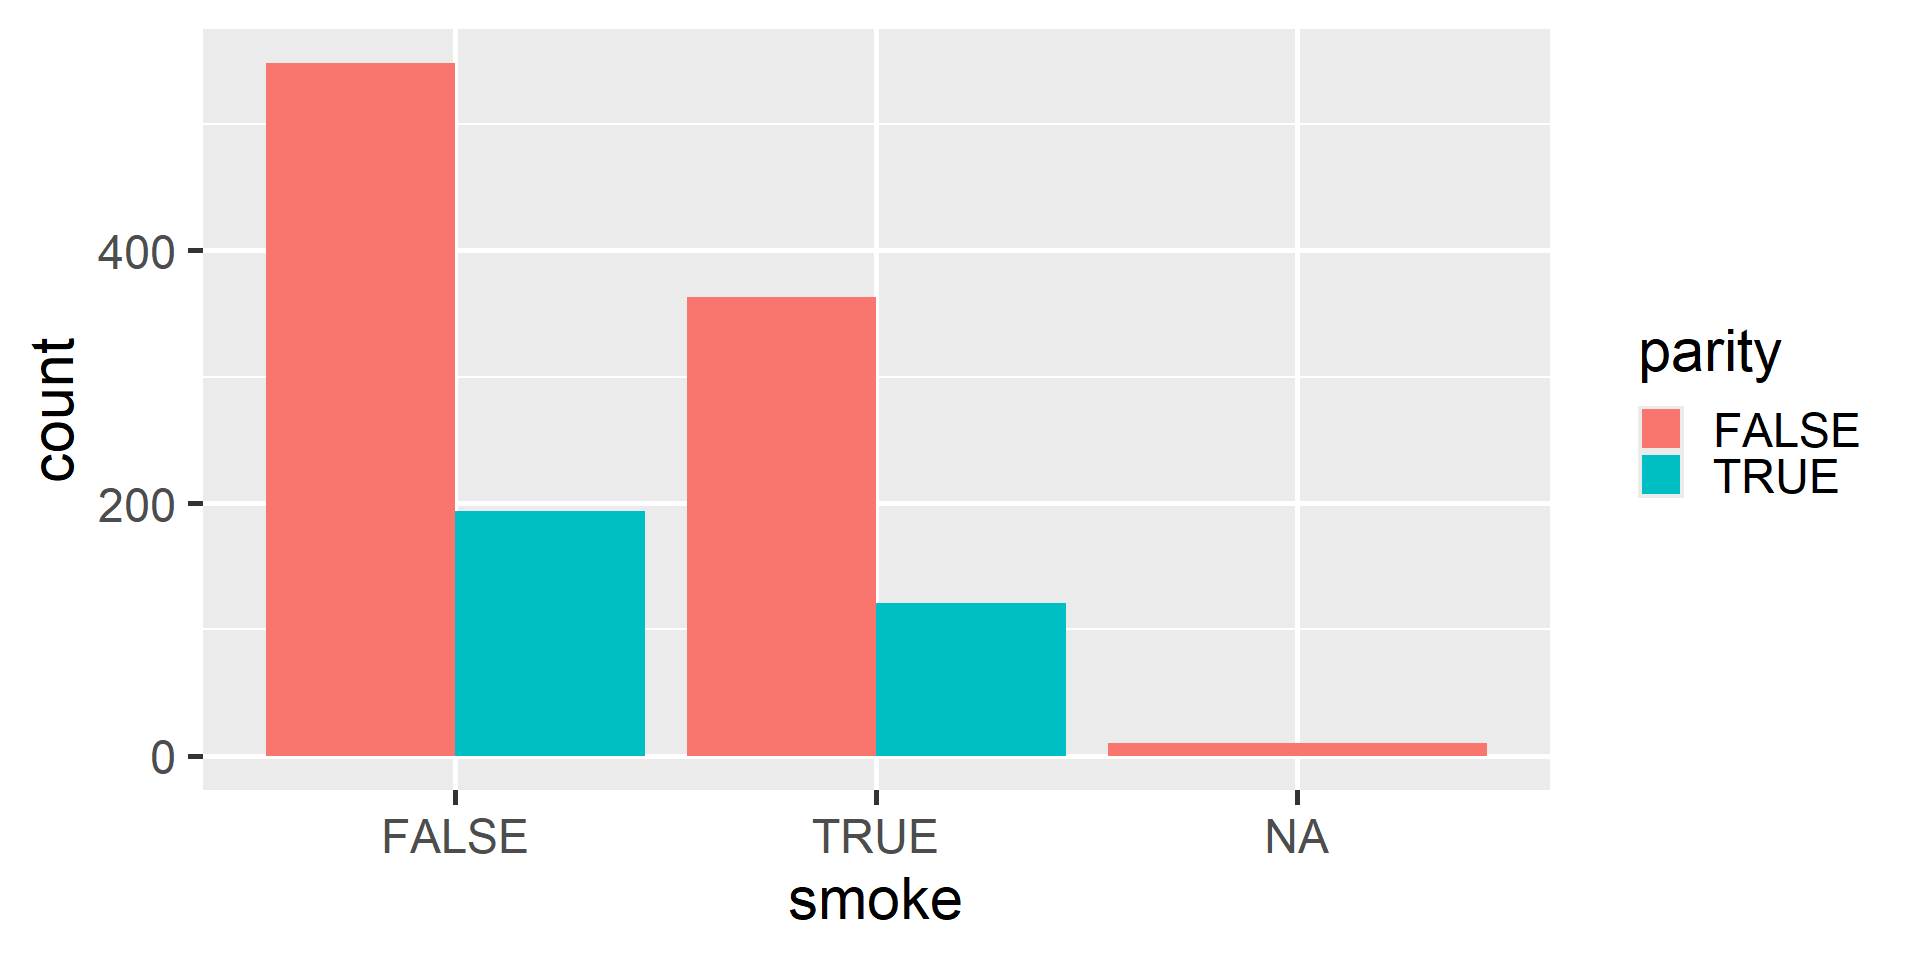
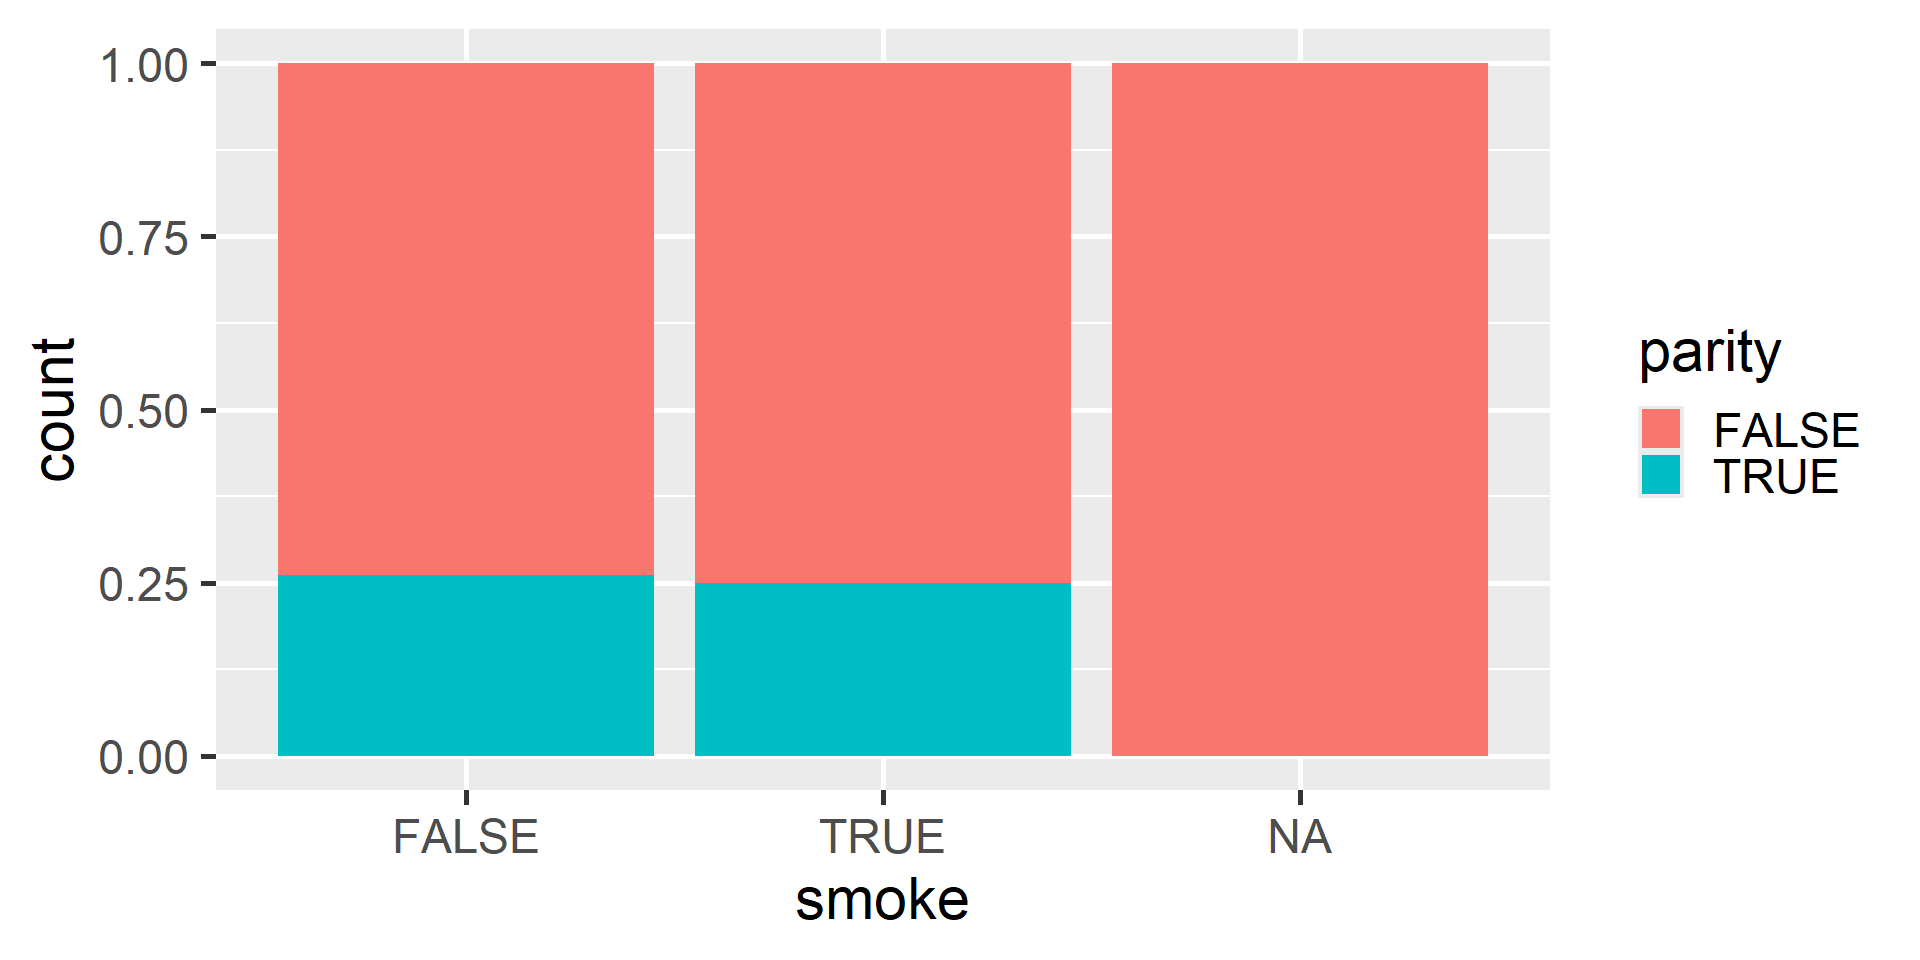
Updated lec 3 to start with dodged instead of standardized bar plots

diff --git a/week-03/lec-03-data-viz-foundations.html b/week-03/lec-03-data-viz-foundations.html
@@ -515,41 +515,56 @@ $ smoke     &lt;lgl&gt; FALSE, FALSE, TRUE, FALSE, TRUE, FALSE, FALSE, FALSE, FA
 <p>When data display a skewed distribution we rely on median rather than the mean to understand the center of the distribution.</p>
 </div>
 </section>
-<section id="looking-at-relationships" class="slide level2">
-<h2>Looking at Relationships</h2>
+<section>
+<section id="looking-at-relationships" class="title-slide slide level1 center">
+<h1>Looking at Relationships</h1>
 <p>So far we seen bar plots and histograms both of which are useful for visualizing a single categorical and numerical variables respectively.</p>
 <div class="fragment">
 <p>We are often interested in looking at relationships between two variables.</p>
 </div>
 </section>
-<section id="standardized-bar-plots" class="slide level2">
-<h2>Standardized Bar Plots</h2>
+<section id="dodged-bar-plot" class="slide level2">
+<h2>Dodged bar plot</h2>
 
 <img data-src="lec-03-data-viz-foundations_files/figure-revealjs/unnamed-chunk-23-1.png" class="quarto-figure quarto-figure-center r-stretch" width="960"><div class="fragment">
-<p>Note that the y axis still shows as a count. We will learn how to change the axis labels later.</p>
+<p>What type of variables can we display with a dodged bar plot?</p>
 </div>
 </section>
-<section id="standardized-bar-plots-1" class="slide level2">
-<h2>Standardized Bar Plots</h2>
+<section id="dodged-bar-plot-1" class="slide level2">
+<h2>Dodged bar plot</h2>
 
-<img data-src="lec-03-data-viz-foundations_files/figure-revealjs/unnamed-chunk-24-1.png" class="quarto-figure quarto-figure-center r-stretch" width="960"><p>What type of variables can we display with a standardized bar plot?</p>
+<img data-src="lec-03-data-viz-foundations_files/figure-revealjs/unnamed-chunk-24-1.png" class="quarto-figure quarto-figure-center r-stretch" width="960"><p>What type of variables can we display with a dodged bar plot? <strong>Two categorical variables</strong></p>
 </section>
-<section id="standardized-bar-plots-2" class="slide level2">
-<h2>Standardized Bar Plots</h2>
+<section id="dodged-bar-plot-2" class="slide level2">
+<h2>Dodged bar plot</h2>
+<div class="columns">
+<div class="column" style="width:50%;">
+<div class="cell" data-layout-align="center">
+<div class="code-copy-outer-scaffold"><div class="sourceCode cell-code" id="cb14"><pre class="sourceCode numberSource r number-lines code-with-copy"><code class="sourceCode r"><span id="cb14-1"><a href="" aria-label="1"></a><span class="fu">ggplot</span>(babies, <span class="fu">aes</span>(<span class="at">x =</span> smoke, <span class="at">fill =</span> parity)) <span class="sc">+</span> </span>
+<span id="cb14-2"><a href="" aria-label="2"></a>  <span class="fu">geom_bar</span>(<span class="at">position =</span> <span class="st">"dodge"</span>)</span></code></pre></div><button title="Copy to Clipboard" class="code-copy-button"><i class="bi"></i></button></div>
+<div class="cell-output-display">
+<div class="quarto-figure quarto-figure-center">
+<figure>
+<p><img data-src="lec-03-data-viz-foundations_files/figure-revealjs/unnamed-chunk-25-1.png" class="quarto-figure quarto-figure-center" width="960"></p>
+</figure>
+</div>
+</div>
+</div>
+</div><div class="column" style="width:50%;">
 
-<img data-src="lec-03-data-viz-foundations_files/figure-revealjs/unnamed-chunk-25-1.png" class="quarto-figure quarto-figure-center r-stretch" width="960"><p>What type of variables can we display with a standardized bar plot? <strong>Two categorical variables</strong></p>
+</div></div>
 </section>
 <section id="bar-plots-two-ways" class="slide level2">
 <h2>Bar plots two ways</h2>
 <div class="columns">
 <div class="column" style="width:50%;">
-<h3 id="standardized-bar-plots-3">Standardized Bar Plots</h3>
+<h3 id="dodged-bar-plot-3">Dodged bar plot</h3>
 <div class="cell" data-layout-align="center">
-<div class="code-copy-outer-scaffold"><div class="sourceCode cell-code" id="cb14"><pre class="sourceCode numberSource r number-lines code-with-copy"><code class="sourceCode r"><span id="cb14-1"><a href="" aria-label="1"></a><span class="fu">ggplot</span>(</span>
-<span id="cb14-2"><a href="" aria-label="2"></a>  babies,</span>
-<span id="cb14-3"><a href="" aria-label="3"></a>  <span class="fu">aes</span>(<span class="at">x =</span> smoke, <span class="at">fill =</span> parity)</span>
-<span id="cb14-4"><a href="" aria-label="4"></a>) <span class="sc">+</span> </span>
-<span id="cb14-5"><a href="" aria-label="5"></a>  <span class="fu">geom_bar</span>(<span class="at">position =</span> <span class="st">"fill"</span>)</span></code></pre></div><button title="Copy to Clipboard" class="code-copy-button"><i class="bi"></i></button></div>
+<div class="code-copy-outer-scaffold"><div class="sourceCode cell-code" id="cb15"><pre class="sourceCode numberSource r number-lines code-with-copy"><code class="sourceCode r"><span id="cb15-1"><a href="" aria-label="1"></a><span class="fu">ggplot</span>(</span>
+<span id="cb15-2"><a href="" aria-label="2"></a>  babies,</span>
+<span id="cb15-3"><a href="" aria-label="3"></a>  <span class="fu">aes</span>(<span class="at">x =</span> smoke, <span class="at">fill =</span> parity)</span>
+<span id="cb15-4"><a href="" aria-label="4"></a>) <span class="sc">+</span> </span>
+<span id="cb15-5"><a href="" aria-label="5"></a>  <span class="fu">geom_bar</span>(<span class="at">position =</span> <span class="st">"dodge"</span>)</span></code></pre></div><button title="Copy to Clipboard" class="code-copy-button"><i class="bi"></i></button></div>
 <div class="cell-output-display">
 <div class="quarto-figure quarto-figure-center">
 <figure>
@@ -559,13 +574,13 @@ $ smoke     &lt;lgl&gt; FALSE, FALSE, TRUE, FALSE, TRUE, FALSE, FALSE, FALSE, FA
 </div>
 </div>
 </div><div class="column" style="width:50%;">
-<h3 id="dodged-bar-plot">Dodged Bar Plot</h3>
+<h3 id="standardized-bar-plot">Standardized bar plot</h3>
 <div class="cell" data-layout-align="center">
-<div class="code-copy-outer-scaffold"><div class="sourceCode cell-code" id="cb15"><pre class="sourceCode numberSource r number-lines code-with-copy"><code class="sourceCode r"><span id="cb15-1"><a href="" aria-label="1"></a><span class="fu">ggplot</span>(</span>
-<span id="cb15-2"><a href="" aria-label="2"></a>  babies,</span>
-<span id="cb15-3"><a href="" aria-label="3"></a>  <span class="fu">aes</span>(<span class="at">x =</span> smoke, <span class="at">fill =</span> parity)</span>
-<span id="cb15-4"><a href="" aria-label="4"></a>) <span class="sc">+</span> </span>
-<span id="cb15-5"><a href="" aria-label="5"></a>  <span class="fu">geom_bar</span>(<span class="at">position =</span> <span class="st">"dodge"</span>)</span></code></pre></div><button title="Copy to Clipboard" class="code-copy-button"><i class="bi"></i></button></div>
+<div class="code-copy-outer-scaffold"><div class="sourceCode cell-code" id="cb16"><pre class="sourceCode numberSource r number-lines code-with-copy"><code class="sourceCode r"><span id="cb16-1"><a href="" aria-label="1"></a><span class="fu">ggplot</span>(</span>
+<span id="cb16-2"><a href="" aria-label="2"></a>  babies,</span>
+<span id="cb16-3"><a href="" aria-label="3"></a>  <span class="fu">aes</span>(<span class="at">x =</span> smoke, <span class="at">fill =</span> parity)</span>
+<span id="cb16-4"><a href="" aria-label="4"></a>) <span class="sc">+</span> </span>
+<span id="cb16-5"><a href="" aria-label="5"></a>  <span class="fu">geom_bar</span>(<span class="at">position =</span> <span class="st">"fill"</span>)</span></code></pre></div><button title="Copy to Clipboard" class="code-copy-button"><i class="bi"></i></button></div>
 <div class="cell-output-display">
 <div class="quarto-figure quarto-figure-center">
 <figure>
@@ -580,11 +595,11 @@ $ smoke     &lt;lgl&gt; FALSE, FALSE, TRUE, FALSE, TRUE, FALSE, FALSE, FALSE, FA
 <h2>Side-by-Side Boxplots</h2>
 <div class="cell columns column-output-location" data-layout-align="center">
 <div class="column">
-<div class="code-copy-outer-scaffold"><div class="sourceCode cell-code" id="cb16"><pre class="sourceCode numberSource r number-lines code-with-copy"><code class="sourceCode r"><span id="cb16-1"><a href="" aria-label="1"></a><span class="fu">ggplot</span>(</span>
-<span id="cb16-2"><a href="" aria-label="2"></a>  babies,</span>
-<span id="cb16-3"><a href="" aria-label="3"></a>  <span class="fu">aes</span>(<span class="at">x =</span> smoke, <span class="at">y =</span> bwt)</span>
-<span id="cb16-4"><a href="" aria-label="4"></a>) <span class="sc">+</span></span>
-<span id="cb16-5"><a href="" aria-label="5"></a>  <span class="fu">geom_boxplot</span>() </span></code></pre></div><button title="Copy to Clipboard" class="code-copy-button"><i class="bi"></i></button></div>
+<div class="code-copy-outer-scaffold"><div class="sourceCode cell-code" id="cb17"><pre class="sourceCode numberSource r number-lines code-with-copy"><code class="sourceCode r"><span id="cb17-1"><a href="" aria-label="1"></a><span class="fu">ggplot</span>(</span>
+<span id="cb17-2"><a href="" aria-label="2"></a>  babies,</span>
+<span id="cb17-3"><a href="" aria-label="3"></a>  <span class="fu">aes</span>(<span class="at">x =</span> smoke, <span class="at">y =</span> bwt)</span>
+<span id="cb17-4"><a href="" aria-label="4"></a>) <span class="sc">+</span></span>
+<span id="cb17-5"><a href="" aria-label="5"></a>  <span class="fu">geom_boxplot</span>() </span></code></pre></div><button title="Copy to Clipboard" class="code-copy-button"><i class="bi"></i></button></div>
 </div><div class="column">
 <div class="cell-output-display">
 <div class="quarto-figure quarto-figure-center">
@@ -675,11 +690,11 @@ $ smoke     &lt;lgl&gt; FALSE, FALSE, TRUE, FALSE, TRUE, FALSE, FALSE, FALSE, FA
 <h2>Scatter plots</h2>
 <div class="cell columns column-output-location" data-layout-align="center">
 <div class="column">
-<div class="code-copy-outer-scaffold"><div class="sourceCode cell-code" id="cb17"><pre class="sourceCode numberSource r number-lines code-with-copy"><code class="sourceCode r"><span id="cb17-1"><a href="" aria-label="1"></a><span class="fu">ggplot</span>(</span>
-<span id="cb17-2"><a href="" aria-label="2"></a>  babies,</span>
-<span id="cb17-3"><a href="" aria-label="3"></a>  <span class="fu">aes</span>(<span class="at">x =</span> gestation, <span class="at">y =</span> bwt)</span>
-<span id="cb17-4"><a href="" aria-label="4"></a>)  <span class="sc">+</span></span>
-<span id="cb17-5"><a href="" aria-label="5"></a>  <span class="fu">geom_point</span>()</span></code></pre></div><button title="Copy to Clipboard" class="code-copy-button"><i class="bi"></i></button></div>
+<div class="code-copy-outer-scaffold"><div class="sourceCode cell-code" id="cb18"><pre class="sourceCode numberSource r number-lines code-with-copy"><code class="sourceCode r"><span id="cb18-1"><a href="" aria-label="1"></a><span class="fu">ggplot</span>(</span>
+<span id="cb18-2"><a href="" aria-label="2"></a>  babies,</span>
+<span id="cb18-3"><a href="" aria-label="3"></a>  <span class="fu">aes</span>(<span class="at">x =</span> gestation, <span class="at">y =</span> bwt)</span>
+<span id="cb18-4"><a href="" aria-label="4"></a>)  <span class="sc">+</span></span>
+<span id="cb18-5"><a href="" aria-label="5"></a>  <span class="fu">geom_point</span>()</span></code></pre></div><button title="Copy to Clipboard" class="code-copy-button"><i class="bi"></i></button></div>
 </div><div class="column">
 <div class="cell-output-display">
 <div class="quarto-figure quarto-figure-center">
@@ -707,7 +722,7 @@ $ smoke     &lt;lgl&gt; FALSE, FALSE, TRUE, FALSE, TRUE, FALSE, FALSE, FALSE, FA
 <section id="data-1" class="slide level2">
 <h2>Data</h2>
 <div class="cell">
-<div class="code-copy-outer-scaffold"><div class="sourceCode cell-code" id="cb18"><pre class="sourceCode numberSource r number-lines code-with-copy"><code class="sourceCode r"><span id="cb18-1"><a href="" aria-label="1"></a><span class="fu">glimpse</span>(penguins)</span></code></pre></div><button title="Copy to Clipboard" class="code-copy-button"><i class="bi"></i></button></div>
+<div class="code-copy-outer-scaffold"><div class="sourceCode cell-code" id="cb19"><pre class="sourceCode numberSource r number-lines code-with-copy"><code class="sourceCode r"><span id="cb19-1"><a href="" aria-label="1"></a><span class="fu">glimpse</span>(penguins)</span></code></pre></div><button title="Copy to Clipboard" class="code-copy-button"><i class="bi"></i></button></div>
 <div class="cell-output cell-output-stdout">
 <pre><code>Rows: 344
 Columns: 8
@@ -725,8 +740,8 @@ $ year        &lt;int&gt; 2007, 2007, 2007, 2007, 2007, 2007, 2007, 2007, 2007, 
 <section id="visualizing-three-variables" class="slide level2">
 <h2>Visualizing Three Variables</h2>
 <div class="cell" data-layout-align="center">
-<div class="code-copy-outer-scaffold"><div class="sourceCode cell-code" id="cb20"><pre class="sourceCode numberSource r number-lines code-with-copy"><code class="sourceCode r"><span id="cb20-1"><a href="" aria-label="1"></a><span class="fu">ggplot</span>(penguins, <span class="fu">aes</span>(<span class="at">x =</span> body_mass, <span class="at">y =</span> bill_len, <span class="at">color =</span> species)) <span class="sc">+</span></span>
-<span id="cb20-2"><a href="" aria-label="2"></a>  <span class="fu">geom_point</span>()</span></code></pre></div><button title="Copy to Clipboard" class="code-copy-button"><i class="bi"></i></button></div>
+<div class="code-copy-outer-scaffold"><div class="sourceCode cell-code" id="cb21"><pre class="sourceCode numberSource r number-lines code-with-copy"><code class="sourceCode r"><span id="cb21-1"><a href="" aria-label="1"></a><span class="fu">ggplot</span>(penguins, <span class="fu">aes</span>(<span class="at">x =</span> body_mass, <span class="at">y =</span> bill_len, <span class="at">color =</span> species)) <span class="sc">+</span></span>
+<span id="cb21-2"><a href="" aria-label="2"></a>  <span class="fu">geom_point</span>()</span></code></pre></div><button title="Copy to Clipboard" class="code-copy-button"><i class="bi"></i></button></div>
 
 </div>
 <img data-src="lec-03-data-viz-foundations_files/figure-revealjs/unnamed-chunk-38-1.png" class="quarto-figure quarto-figure-center r-stretch" width="960"><p>We can use color to consider a third variable</p>
@@ -745,7 +760,7 @@ $ year        &lt;int&gt; 2007, 2007, 2007, 2007, 2007, 2007, 2007, 2007, 2007, 
 
 <img data-src="img/ggplot-summary.png" style="width:80.0%" alt="A reference chart summarizing ggplot2 aesthetics and geoms. The chart is divided into two columns. The left column lists aesthetic mappings under 'aes = (...........)'  correspoinding arguments: x and y representing horizontal vertical arrows, respectively. Color groups points using color, such as black, pink, and green. Fill breaks bars based on groups assigning a color to each group, such as a barplot with three rectangles in pink and green. Shape groups points using shapes, such as circle, triangle, and square. Size maps a numerical variable to distinguish the amount of it based on the size of the point, such as pink circles of increasing size. The right column lists geoms under 'geom_.........()' with corresponding icons: bar with three vertical bars with space betweeen them, histogram with a series of small bars touching each other forming a distribution, boxplot with a horizontal box and whiskers, point with a scatterplot of small green dots. The chart visually connects aesthetic options on the left to common geom types on the right." class="r-stretch quarto-figure-center" id="fig-ggplot-summary"><p class="caption">
 Figure&nbsp;1: Hello Data Science Figure 3.21
-</p></section>
+</p></section></section>
     </div>
   <div class="quarto-auto-generated-content" style="display: none;">
 <div class="footer footer-default">
